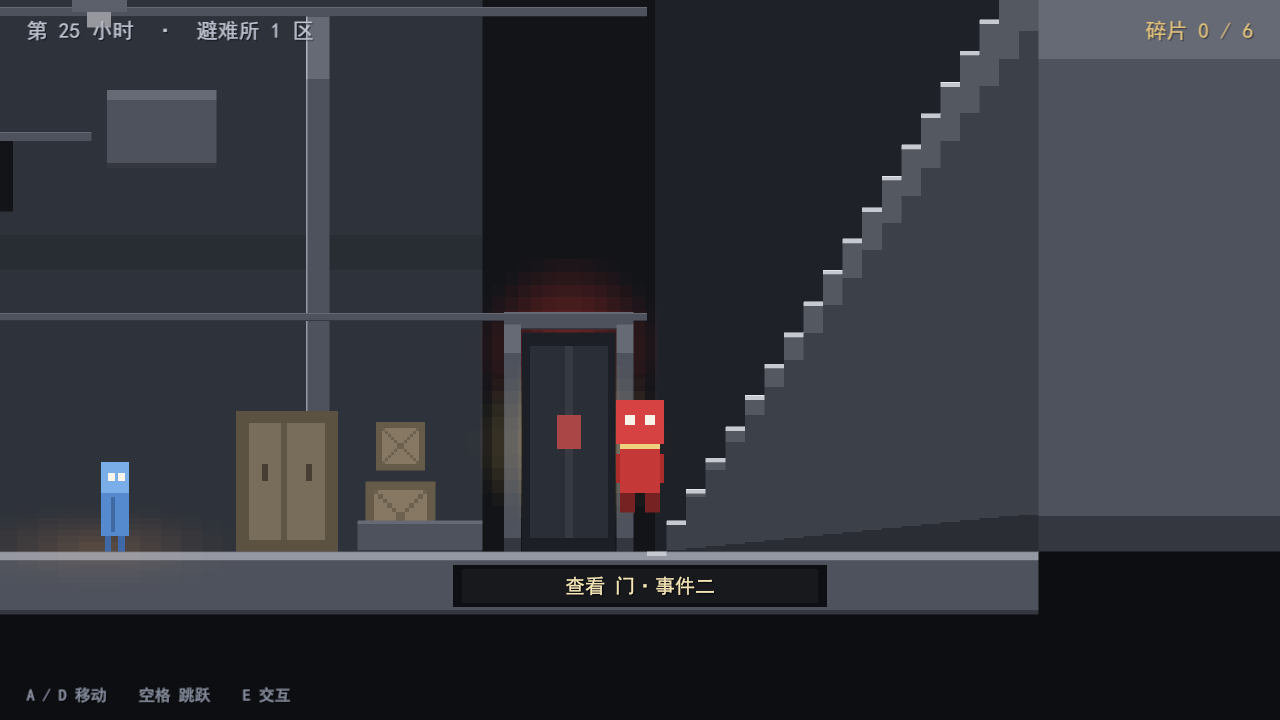
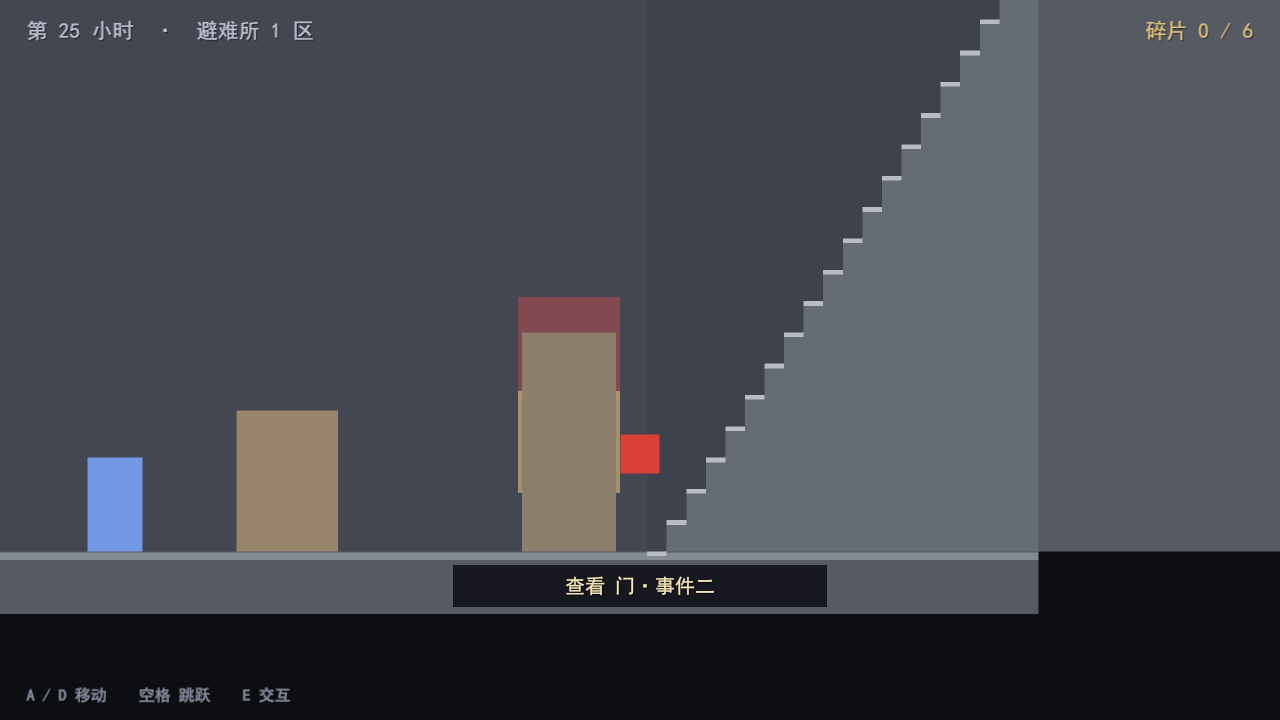
docs：同步白盒说明

diff --git a/README.md b/README.md
@@ -2,7 +2,7 @@
 
 《第25小时》的 Unity 2D 项目，本仓库包含第 0 层「避难所 1 区」的可玩白盒场景。
 
-场景为单张横版场景，含 1F、楼梯井与 B1 两层空间：6 个可收集碎片、若干可查看的物件、两扇通向事件场景的门，以及「完成事件一后解锁事件二」的进度链。美术资源由编辑器脚本生成，为占位图；交互台词暂未填写，事件场景为空房间，供棋盘 / 事件玩法负责人接入。
+场景为单张横版场景，含 1F、楼梯井与 B1 两层空间：6 个可收集碎片、若干可查看的物件、两扇通向事件场景的门，以及「完成事件一后解锁事件二」的进度链。白盒只用一块白方块，物件靠颜色区分，不含任何美术资源；交互台词暂未填写，事件场景为空房间，供棋盘 / 事件玩法负责人接入。
 
 - Unity 版本：`2022.3.62f3c1`
 - 目标平台：Windows（Standalone）
@@ -67,7 +67,7 @@ public bool IsLocked =>
 
 ```
 Assets/
-  Art/                 占位图（由脚本生成，勿手改）
+  Art/                 白方块贴图（由脚本生成，勿手改）
   Editor/              白盒生成器、工具箱、贴图生成
   Scenes/              Shelter_L0 / Event_01 / Event_02
   Scripts/             玩家、交互、进度、事件接入
@@ -101,7 +101,7 @@ dist/
 
 菜单 `工具 / 25小时`：
 
-- `重建第0层（白盒）`：重新生成贴图、字体、三个场景与 Build Settings
+- `重建第0层（白盒）`：重新生成白方块贴图、字体、三个场景与 Build Settings
 - `白盒工具箱`：网格对齐、快速加平台、打开场景
 - `一键：重建 + 截图 + 打包`：以上全部，输出到 `D:/Unity2D/Build/25Hours`
 
@@ -159,7 +159,7 @@ public class Event01Board : EventRoomBase
 
 ## 现状与已知限制
 
-- 美术全部是脚本生成的占位图，尺寸与配色按白盒需要，不具最终品质
+- 没有任何美术资源：场景里所有物件共用一块 8×8 白方块，颜色在 `Level0Builder.TintFor` 里按用途给；正式美术替换物件的 sprite 即可
 - 中文使用系统字体 SimHei，字体本身不随仓库分发
 - 事件场景为空房间，玩法未实现
 - 白盒重建会覆盖 `Shelter_L0`、`Event_01`、`Event_02` 三个场景，手改前请先另存

diff --git a/docs/whitebox.md b/docs/whitebox.md
@@ -50,7 +50,7 @@
 | 文件 | 作用 |
 | --- | --- |
 | `Assets/Editor/Level0Builder.cs` | 生成三个场景、Build Settings、预览图、Windows 包 |
-| `Assets/Editor/WhiteBoxArt.cs` | 生成全部占位贴图，并按 PPU 16 / Point / 无压缩导入 |
+| `Assets/Editor/WhiteBoxArt.cs` | 只生成一块 8×8 白方块 `wb_block`（PPU 16 / Point / 无压缩），并导入中文字体 |
 | `Assets/Editor/WhiteBoxUI.cs` | 代码构建 Canvas、面板、文字、按钮 |
 | `Assets/Editor/WhiteBoxWindow.cs` | 白盒工具箱窗口 |
 
@@ -67,7 +67,8 @@
 - 移动、缩放家具：直接在场景里拖；只有 `01_建筑` 里的物体影响通行
 - 加一块可站立的地面：工具箱 →「在选中物体位置加一块平台」，自动放到 `Ground` 层
 - 对齐：工具箱 → 网格大小 +「把选中物体对齐到网格」
-- 换贴图：`Assets/Art` 下同名文件直接替换；新增贴图后需要把 Import 设置改成 Sprite、PPU 16、Point、No Compression
+- 换美术：所有物件共用一个 `wb_block` 白方块，颜色由 `Level0Builder.TintFor(名字)` 给定；要换正式美术，把物件上的 `SpriteRenderer.sprite` 换成正式图，并把 `sr.color` 设为白色
+- 白盒阶段不产出任何美术资源，`Assets/Art` 里只有 `wb_block.png` 一张
 
 ## 6. 自测
 

diff --git a/CONTRIBUTING.md b/CONTRIBUTING.md
@@ -20,13 +20,13 @@
 
 ## 不要手改的部分
 
-- `Assets/Art/`：全部占位图由 `WhiteBoxArt.cs` 生成，手改会在下次重建时丢失。需要换图请改生成脚本，或改用独立目录
+- `Assets/Art/`：只有一块由 `WhiteBoxArt.cs` 生成的白方块 `wb_block.png`，手改会在下次重建时丢失
 - `Assets/Fonts/`：SimHei 为系统字体，不随仓库分发；重建时会自动从系统复制
 - `ProjectSettings/TagManager.asset` 中的层：`8 = Ground`、`9 = Interactable`，新增层请从 10 起
 
 ## 白盒修改流程
 
-1. 修改 `Assets/Editor/Level0Builder.cs`（布局 / 坐标）或 `WhiteBoxArt.cs`（贴图）
+1. 修改 `Assets/Editor/Level0Builder.cs`（物件位置 / 尺寸 / 颜色）
 2. Unity 菜单 `工具 / 25小时 / 重建第0层（白盒）`
 3. 运行自测确认流程正常（见下）
 4. 提交时一并带上场景文件与 `docs/` 下的截图
